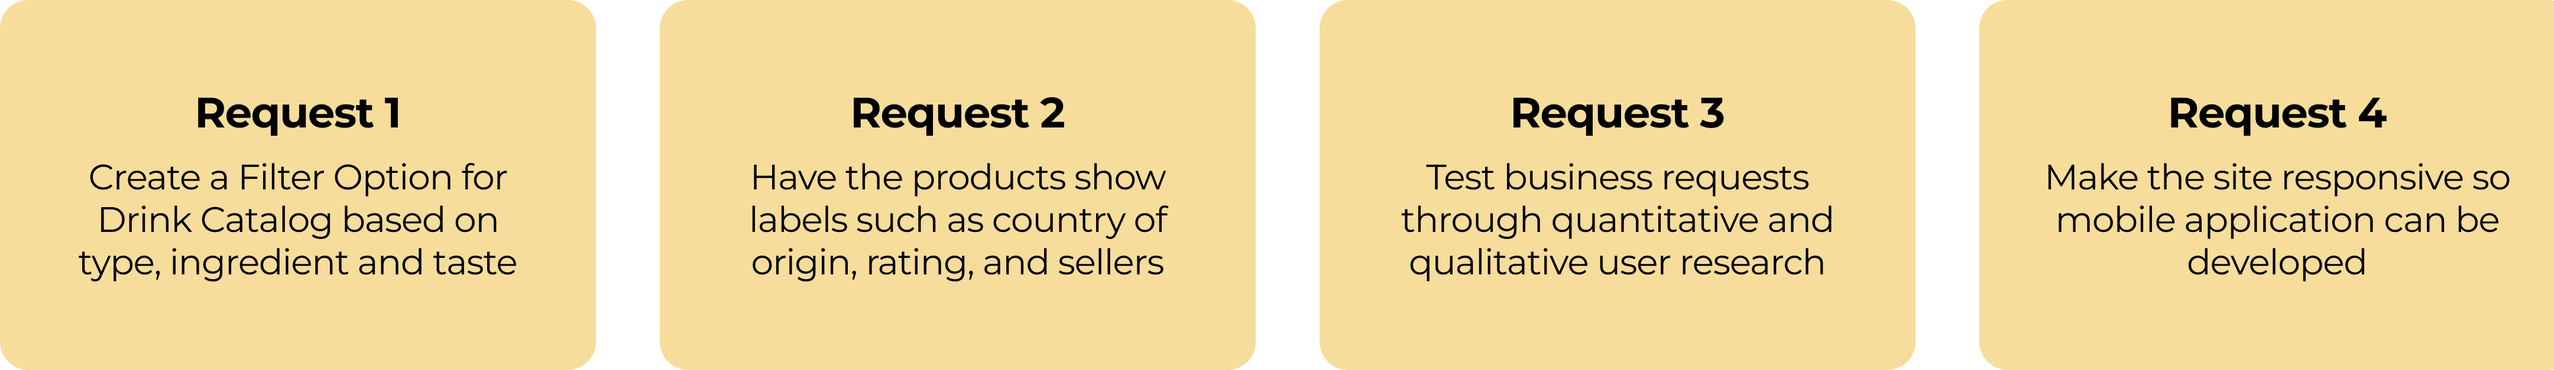
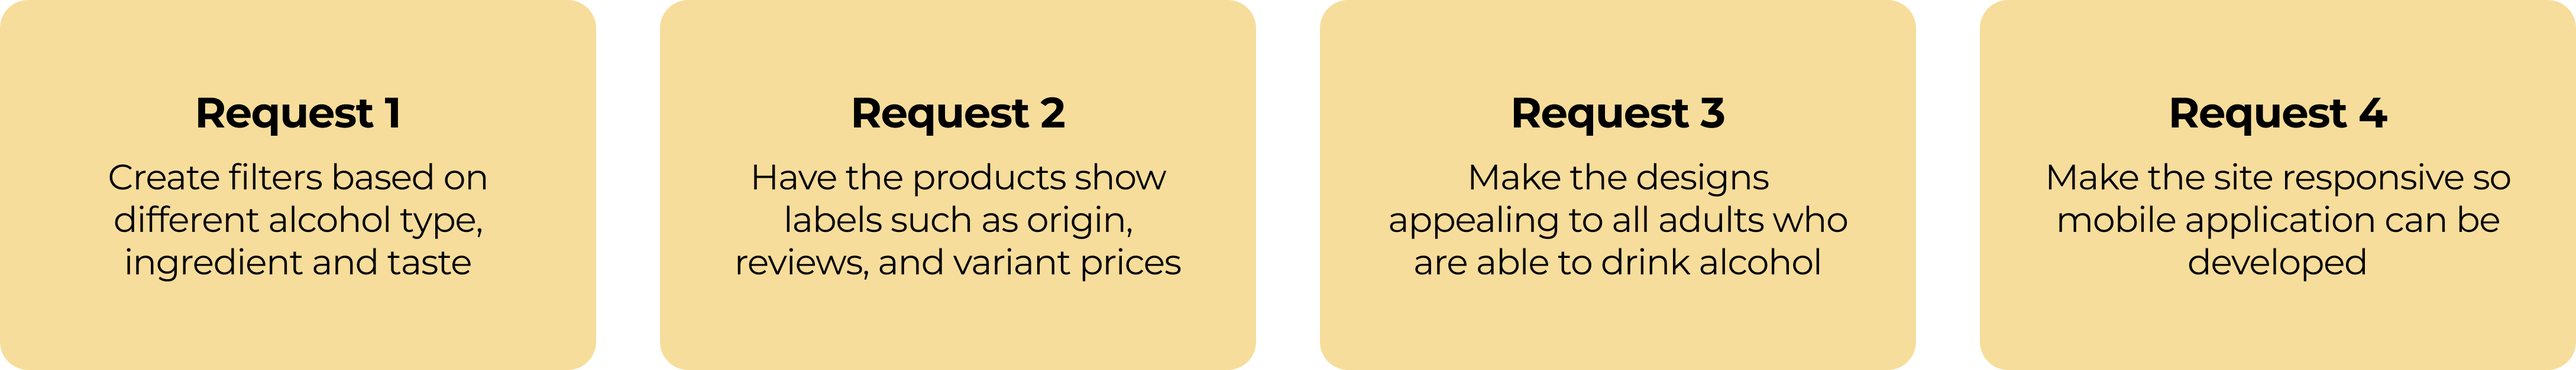
until prototype

diff --git a/src/pages/Unibuzz.js b/src/pages/Unibuzz.js
@@ -6,6 +6,18 @@ import TargetUser from '../resources/target user.png';
 import Stats from '../resources/stats.png';
 import Conbini from '../resources/conbini.png';
 import Requests from '../resources/requests.png'
+import SurveyData from '../resources/survey-data.png';
+import SurveyInsight from '../resources/survey-insight.png';
+import UserInterview from '../resources/user-interview.png';
+import Persona from '../resources/persona.png';
+import MVPDefine from '../resources/mvp-features.png';
+import Sitemap from '../resources/sitemap.png';
+import Journey  from '../resources/user-journey.png';
+import Filter from '../resources/filter.png'
+import Wireframe from '../resources/wireframe.png';
+import StyleGuide from '../resources/style-guide.png';
+import DesignSystem from '../resources/design-system.png';
+import FinalUI from '../resources/finalui.png';
 
 const Unibuzz = () => {
   return (
@@ -18,7 +30,6 @@ const Unibuzz = () => {
             <h5>Role: Product Designer (Responsive Web)</h5>
             <h5>Responsibility: End to end UI UX design</h5>
             <h5>Timeline: April 2024 - June 2024</h5>
-            
         </div>
         <div className='case-p'>
           <h2>Overview</h2>
@@ -49,7 +60,7 @@ const Unibuzz = () => {
           <h3>Project Overview</h3>
         </div>
         <div className='img-container'>
-          <img src = { TargetUser }></img> 
+          <img className= 'width-800' src = { TargetUser }></img> 
         </div>
         <div className='case-p'>
           <h4>Understanding the User</h4> 
@@ -60,22 +71,25 @@ const Unibuzz = () => {
           <h4>Understanding the Business</h4> 
         </div>
         <div className='img-container'>
-          <img src = { Stats }></img>
+          <img className= 'width-800' src = { Stats }></img>
           <h6>Quarterly transaction value of online food and beverages sales in South Korea from the 1st quarter of 2017 to the 1st quarter of 2024, Statista (2024)</h6> 
         </div>
         <div className='case-p'>
           <p>The online food and beverage market in South Korea has experienced remarkable growth, driven by an increasing preference for convenience and technological advancements. Home delivery services have become particularly popular due to the busy lifestyles of South Koreans and the rapid adoption of mobile technology. Although alcohol can be purchased online, it must be picked up at one of the following covenience stores in the country. </p>
         </div>
         <div className='img-container'>
-          <img src = { Conbini }></img>
+          <img className= 'width-800' src = { Conbini }></img>
           <h6>Online alcohol sales are dominated by physical store visits or pickup services provided by convenience store chains.</h6> 
         </div>
         <div className='case-p'>
           <h5 className='emphasis'>An app dedicated to online alcohol home delivery has the potential to become an instant-hit</h5>
         </div>
+        <div className='case-p'>
+          <h4>Business Requests</h4> 
+        </div>
         <div className='img-container'>
-          <img src = { Requests }></img>
-          <h6>Business requests from the stakeholders</h6> 
+          <img className= 'width-1200' src = { Requests }></img>
+          <h6>Stakeholder demands to meet during product development</h6> 
         </div>
         <div className='case-p'>
           <p>Just like any other project, a client or stakeholder will demand certain requests or features to be carried out during the development process. My client requested several key features for the platform: a filter option for the drink catalog based on type, ingredient, and taste; product labels indicating country of origin, rating, and seller count; validation of business requests through both quantitative and qualitative user research; and a responsive design to facilitate future mobile application development. </p>
@@ -85,6 +99,128 @@ const Unibuzz = () => {
           <p>
           Based on my understanding of the target user and the business requirements, I conducted two methods of research to test initial hypothesis and get a better insight into what the users would think of the product’s features.  
           </p>
+        </div>
+        <div className='case-p'>
+          <h4>Quantitative Research: User Survey</h4> 
+          <p><b>Scope:</b> 75 participants undertook an online survey, that consisted of 5 questions which they answered in Likert scale (strongly disagree -> strongly agree). All of the participants were adults over the age of 18, and had a history of drinking alcohol at home. The questions in this survey were formulated based on the business goals I need to accomplish and experience/emotion of our target users. </p>
+        </div>
+        <div className='img-container'>
+          <img className= 'width-1200' src = { SurveyData }></img>
+        </div>
+        <div className='img-container'>
+          <img className= 'width-1200' src = { SurveyInsight }></img>
+        </div>
+        <div className='case-p'>
+          <p><b>Key Findings:</b> Based on the survey data we can infer the following insights: </p>
+          <ul>
+            <li>The current e-commerce experience for alcohol is good, as only 12% of participants felt difficulty using the products for pick-up services. </li>
+            <li>Roughly half of participants had regret when buying alcohol which is an interesting statistic and requires more research. If the current user experience is good why are half of users not satisfied?</li>
+            <li>73% of participants think having a taste filter would for alcohol would be helpful, which signifies its need in the current market. </li>
+            <li>All participants felt home delivery would be more convenient than pick-up services as was expected. This assures the stakeholders the business idea has value in today's market.</li>
+            <li>The current user interface of existing products is generally favorable, although the remaining 31% of participants perhaps felt there could be improvements made. </li>
+          </ul>
+        </div>
+        <div className='case-p'>
+        <h4>Qualitative Research: User Survey</h4> 
+        </div>
+        <div className='img-container'>
+          <img className= 'width-1200' src = { UserInterview }></img>
+        </div>
+        <div className='case-p'>
+            <p><b>Key Findings:</b> 
+            <ul>
+              <li>Users expressed frustration over spending significant amounts on liquor they ultimately didn't enjoy, indicating a need for better information or guidance before making purchasing decisions.</li>
+              <li>Many users highlighted the challenge of buying alcohol without sufficient knowledge, emphasizing that the difficulty lies not in the buying process itself but in the risk associated with choosing unfamiliar products.</li>
+              <li>Users found reviews crucial for understanding the taste of drinks, suggesting that incorporating filters based on taste preferences could enhance their shopping experience significantly. </li>
+              <li>Users expressed reservations about alcohol apps linked primarily to convenience stores, which are not typically associated with offering a wide variety or high-quality selection of alcoholic beverages.</li>
+            </ul>
+          </p>
+        </div>
+        <div className='case-p'>
+          <h5 className='emphasis'>Despite the ease of online alcohol purchasing, some struggle with drink selection.</h5>
+        </div>
+        <div className='case-p'>
+          <h4>User Persona</h4> 
+        </div>
+        <div className='img-container'>
+          <img className= 'width-1200' src = { Persona }></img>
+        </div>
+        <div className='case-p'>
+          <p><b>Meet Mike</b></p>
+          <p>The data and insights gathered through quantitative and qualitative methods gave birth to Mike Kim. Like many young adults in their 20s and 30s (Gen Z) Mike appreciates the convenience of online shopping, yet still faces difficulties making the right selection of alcoholic drinks. Mike wishes to be able to purchase alcohol quickly and efficiently, without having to regret spending money on a drink he might not like. </p> 
+        </div>
+        <div className='case-p'>
+          <h4>Defining the MVP</h4>
+          <p>At this point, I was ready to start defining the features the platform would include. I had got to know my target user, and reaffirmed the business demands set by the stakeholder through UX research. With this information in hand, I set out to define the MVP (minimum viable product).</p> 
+        </div>
+        <div className='img-container'>
+          <img className= 'width-1200' src = { MVPDefine }></img>
+        </div>
+        <div className='case-p'>
+          <h3>Product Architecture</h3>
+        </div>
+        <div className='case-p'>
+          <h4>Visual Sitemap</h4>
+        </div>
+        <div className='img-container'>
+          <img className= 'width-800' src = { Sitemap }></img>
+        </div>
+        <div className='case-p'>
+          <p>With the features of the platform decided, I constructed a visual sitemap of the the main pages. This sitemap was created with developers in mind, instructing them when to keep the user interface elements in the same page without reloading new pages through dynamic updates, or in more technical terms AJAX updates. This should help the design and development team be in sync and reduce miscommunication issues. </p> 
+        </div>
+        <div className='case-p'>
+          <h4>User Journey</h4>
+        </div>
+        <div className='img-container'>
+          <img className= 'width-1200' src = { Journey }></img>
+        </div>
+        <div className='case-p'>
+          <p>To further help define the structure and architecture of the website, I created a User Journey flow of what a typical user of the platform might go through during his experience with the product. User flowcharts help me visualize and understand the paths users take while interacting with the product UI. </p> 
+        </div>
+        <div className='case-p'>
+          <h4>The Custom Filter</h4>
+        </div>
+        <div className='img-container'>
+          <img className= 'width-1200' src = { Filter }></img>
+        </div>
+        <div className='case-p'>
+          <p>With the help of the stakeholders, liquor experts, and alcohol enthusiasts, I was able to create their requested "taste" filter for different types of drinks. Users can select their combination of flavor notes and will be given the selection of alcohol that best matches the combination based on other user reviews. For the MVP, this feature is available for wine, beer, and whiskey as these were the most popular drinks sold in liquor shops nationwide. Filters for other fermented or distilled alcohols will be considered in the future.</p>
+        </div>
+        <div className='case-p'>
+          <h4>Mid-fidelity Wireframe</h4>
+        </div>
+        <div className='img-container'>
+          <img className= 'width-1200' src = { Wireframe }></img>
+        </div>
+        <div className='case-p'>
+          <p>Now that the structure and architecture of the product has been set along with the requested taste filter, I created mid-fidelity responsive wireframes that will act as blueprints for the final UI designs. </p>
+        </div>
+        <div className='case-p'>
+          <h3>UI and Branding</h3>
+          <h4>Style Guide</h4>
+          <p>With the mid-fidelity wireframes ready, I made sure that the design of the site matched the stakeholder’s vision and the message he wanted to send to the users. Below are some keywords that represent the idea or feel of the brand with a mood + inspiration board. </p>
+        </div>
+        <div className='img-container'>
+          <img className= 'width-1200' src = { StyleGuide }></img>
+        </div>
+        <div className='case-p'>
+          <h4>Design System</h4>
+          <p>A design system with the base foundations are set to create the UIs for responsive platform. </p>
+        </div>
+        <div className='img-container'>
+          <img className= 'width-1200' src = { DesignSystem }></img>
+        </div>
+        <div className='case-p'>
+          <h4>UI: Responsive Web</h4>
+          <p>Based on the style guide and design system I built, I designed the user interface of the platform for both desktop and mobile web screens.  </p>
+        </div>
+      </div>
+      <div className='span-banner'>
+        <img src = { FinalUI }></img>
+      </div>
+      <div className='case-study'>
+        <div className='case-p'>
+          <h3>Prototype and Testing</h3>
         </div>
       </div>
     </>

diff --git a/src/pages/Unibuzz.css b/src/pages/Unibuzz.css
@@ -9,6 +9,19 @@
     height: 500px;
 }
 
+.span-banner {
+    width: 100%;
+    margin: 100px 0px 100px 0px;
+    display: flex;
+    justify-content: center; /* Centers horizontally */
+    align-items: center;    /* Centers vertically */
+}
+
+.span-banner > img {
+    width: 100%;
+    height: auto;   /* Maintain aspect ratio */
+}
+
 .approach-bg {
     width: 100%;
     margin: 100px 0px 100px 0px;
@@ -65,28 +78,29 @@
 
 .case-p > h2 {
     color: var(--Neutral-800, #1F2937);
-    font-size: 32px;
+    font-size: 36px;
     font-style: normal;
     font-weight: 900;
     line-height: normal;
+    
 }
 
 .case-p > h3 {
     color: var(--Neutral-800, #861336);
-    font-size: 24px;
+    font-size: 30px;
     font-style: normal;
     font-weight: 800;
     line-height: normal;
-    margin-top: 30px;
+    margin-top: 120px;
 }
 
 .case-p > h4 {
     color: var(--Neutral-800, #78350F);
-    font-size: 18px;
+    font-size: 24px;
     font-style: normal;
     font-weight: 800;
     line-height: normal;
-    margin-top: 30px;
+    margin-top: 50px;
 }
 
 .case-p > p {
@@ -100,8 +114,15 @@
 .img-container > img {
     width: 100%;
     height: auto;   
-    max-width: 800px;
     margin-top:30px;
+}
+
+.width-800 {
+    max-width: 800px;
+}
+
+.width-1200 {
+    max-width:1200px;
 }
 
 .img-container {
@@ -110,6 +131,7 @@
     align-items: center;    /* Centers vertically */
     flex-direction: column;
 }
+
 
 .img-container > h6 {
     color: var(--Neutral-700, #404040);
@@ -130,4 +152,10 @@
     line-height: normal;
     letter-spacing: 1.5px;
     margin-top: 20px;
+    text-align: justify;
+}
+
+.case-p li {
+    margin-top: 20px;
+    margin-left: 20px;
 }
